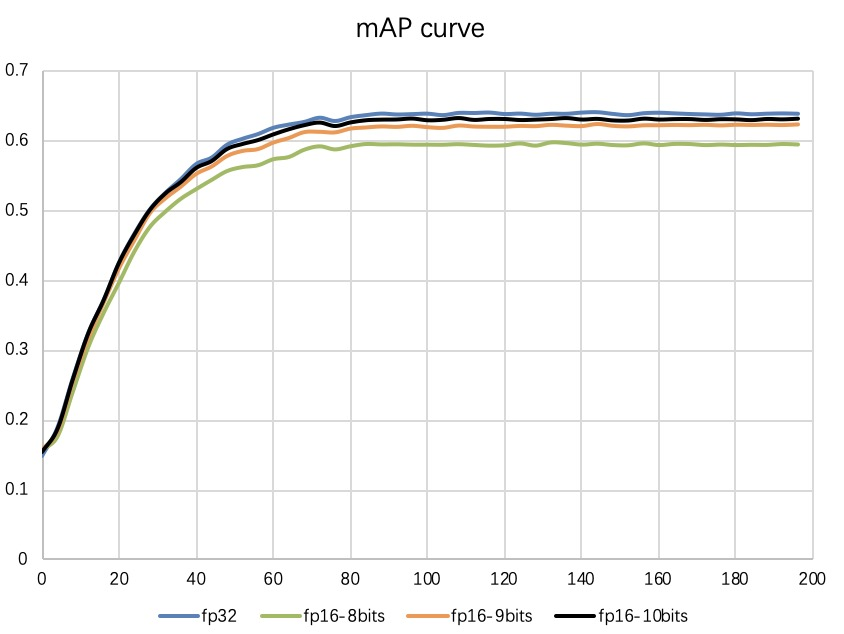
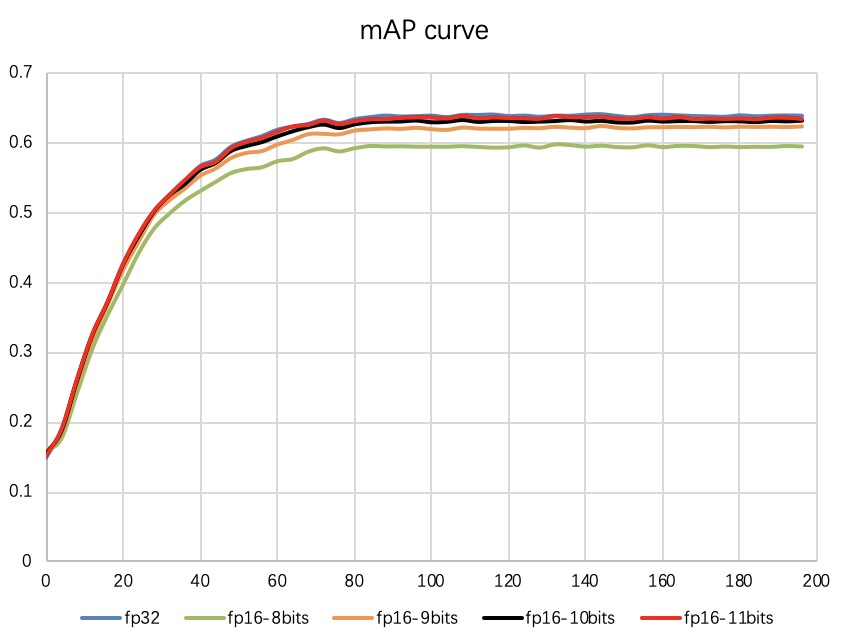
modify for sumbitting in 0306

Changed region(s): [[0.0, 0.0899, 0.9858, 0.989], [0.4005, 0.03, 0.5853, 0.0599]]

diff --git a/data/innovation2.tex b/data/innovation2.tex
@@ -35,11 +35,11 @@
 \end{minipage}
 \end{table}
 
-本章希望在不影响神经网络训练精度的情况下，尽可能减少梯度数据所需的比特位数，为进一步减少分布式通信开销，提高分布式系统可扩展性和训练效率提供数据压缩方法。本章将主要介绍梯度压缩的思路与实现方法，以及对应压缩方式在图像分类和物体检测网络中的训练精度。通过其与原始的训练精度对比，说明对应压缩算法的有效性和适用范围。本章针对图像分类、物体检测任务分别提出三种极限精度梯度压缩EPGC方法。图像分类任务对梯度数据精度要求低，本文提出9比特梯度压缩方法和8比特梯度压缩方法；考虑到物体检测网络对梯度数据精度要求偏高，具体原因将在后面详细分析，本文提出11比特梯度压缩方法。经实验证明：本文提出的三种极限精度梯度压缩EPGC方法，在图像分类或物体检测任务中均能达到原始训练相同收敛精度。说明了这三种梯度压缩方法在各自任务中的有效性，以及通过该压缩方法在保证神经网络收敛精度前提下，提升分布式系统可扩展性和训练效率的可行性。
+本章希望在不影响神经网络训练精度的情况下，尽可能减少梯度数据所需的比特位数，为进一步减少分布式通信开销，提高分布式系统可扩展性和训练效率提供数据压缩方法。本章将主要介绍梯度压缩的思路与实现方法，以及对应压缩方式在图像分类和物体检测网络中的训练精度。通过其与原始的训练精度对比，说明对应压缩算法的有效性和适用范围。本章针对图像分类、物体检测任务分别提出三种极限精度梯度压缩EPGC方法。图像分类任务对梯度数据精度要求低，本文提出9比特梯度压缩方法和8比特梯度压缩方法；考虑到物体检测网络对梯度数据精度要求偏高，本文提出11比特梯度压缩方法。造成物体检测网络对梯度数据精度要求偏高的原因将在后面详细分析。经实验证明：本文提出的三种极限精度梯度压缩EPGC方法，在图像分类或物体检测任务中均能达到原始训练相同收敛精度。说明了这三种梯度压缩方法在各自任务中的有效性，以及通过该压缩方法在保证神经网络收敛精度前提下，提升分布式系统可扩展性和训练效率的可行性。
 \section{引言}
 根据第二章内容可知，分布式训练过程中同步开销的大小对系统的可扩展性和训练效率有至关重要的影响。在不影响训练精度的情况下，将梯度尽可能地压缩则可减少同步开销，提高分布式系统的可扩展性和训练效率。本章将分别介绍适用于图像分类和物体检测网络的不同梯度压缩方法，将详细分析其具体实现和各个压缩方式下分类网和物体检测网络的最终收敛精度。
 
-由第三章LPDU算法实现可知，基于horovod要实现新的数据压缩方法，则需在MPI中新增一个数据类型来解析该压缩数据，并实现一个该数据类型的求和函数供MPI调用。为快速验证本文针对图像分类和物体检测任务分别提出的梯度压缩方法对网络训练精度的影响，本章提出的梯度压缩方法均通过对FP32浮点数或半精度浮点数对应比特位清零的方式来模拟对应的压缩方法。该模拟方法可避免对MPI的改动，使得本章提出的压缩方法能够快速得到验证。下面将对适用于图像分类网络的两种EPGC方法：9比特梯度压缩方法和8比特梯度压缩方法；以及适用于物体检测网络的10比特梯度压缩方法进行详细介绍。
+由第三章LPDU算法实现可知，基于horovod要实现新的数据压缩方法，则需在MPI中新增一个数据类型来解析该压缩数据，并实现一个该数据类型的求和函数供MPI调用。为快速验证本文针对图像分类和物体检测任务分别提出的梯度压缩方法对网络训练精度的影响，本章提出的梯度压缩方法均通过对FP32浮点数或半精度浮点数对应比特位清零的方式来模拟对应的压缩方法。该模拟方法可避免对MPI的改动，使得本章提出的压缩方法能够快速得到验证。下面将对适用于图像分类网络的两种EPGC方法：9比特梯度压缩方法和8比特梯度压缩方法；以及适用于物体检测网络的11比特梯度压缩方法进行详细介绍。
 \section{分类网络中的梯度压缩方法}
 本节主要介绍适用于图像分类网络的两种梯度压缩方法：9比特梯度压缩方法和8比特梯度压缩方法。实验证明这两种压缩方法在分类网络中均能达到理想收敛精度，但在性能上各有优缺点。
 
@@ -142,7 +142,7 @@ FP32 & 76.12 \\
 \label{fig:low_bits_ssd}
 \end{figure}
 
-由图~\ref{fig:low_bits_ssd}所示，在仅保留2比特尾数情况下，SSD最终收敛的mAP指略低于原始浮点数训练的收敛精度。随着尾数位的降低，其收敛精度也逐渐降低；可以看出：8比特梯度压缩方法下收敛曲线与基于浮点数的11比特梯度压缩方法的曲线基本重合，其原因在于这两种梯度压缩方法的尾数位均相同,因为梯度数据本身数值范围较小，指数位的减小不会对网络精度造成影响。图~\ref{fig:low_bits_ssd}充分说明了物体检测网络因为存在回归坐标任务的存在，使得其对梯度数据的精度要求高于分类网络，适用于分类网络的极限梯度压缩EPGC方法不能保证物体检测网络的训练精度。不同梯度压缩方法下SSD最终收敛精度如表~\ref{tab:ssd_accs}所示。
+由图~\ref{fig:low_bits_ssd}所示，在仅保留2比特尾数情况下，SSD最终收敛的mAP指略低于原始浮点数训练的收敛精度。随着尾数位的降低，其收敛精度也逐渐降低；可以看出：8比特梯度压缩方法下收敛曲线与基于浮点数的11比特梯度压缩方法的曲线基本重合，其原因在于这两种梯度压缩方法的尾数位均相同,因为梯度数据本身数值范围较小，指数位的减小不会对网络精度造成影响。图~\ref{fig:low_bits_ssd}充分说明了物体检测网络因为存在回归坐标任务，其对梯度数据的精度要求高于分类网络，适用于分类网络的极限梯度压缩EPGC方法不能保证物体检测网络的训练精度。不同梯度压缩方法下SSD最终收敛精度如表~\ref{tab:ssd_accs}所示。
 \begin{table}[htb]
 \centering
 \noindent\begin{minipage}{0.6\textwidth}
@@ -167,7 +167,7 @@ FP32 & 76.12 \\
 
 同理，为快速验证本节提出的梯度压缩方法的有效性，所有梯度压缩方法均通过在半精度浮点数基础上对特定尾数位清零的方式模拟所得。原理与图~\ref{fig:simulate_8bits}类似。
 
-通过该模拟方法，本节分别得出使用9比特，10比特，11比特情况下，对应梯度压缩方法对物体检测网络收敛精度的影响。经实验验证：保留5位尾数位，使用11比特梯度压缩方法能保证物体检测网络的收敛精度。9比特，10比特，11比特梯度压缩方法下物体检测网络的mAP曲线如图~\ref{fig:ssd_epgc_accs}所示。可知，随着梯度数据尾数位的逐渐增加，物体检测网络的训练曲线越来越接近于原始浮点数的训练曲线。当尾数比特位增加至5位时，11比特梯度压缩方法下SSD的收敛曲线基本与原始浮点数训练的收敛曲线重合，说明了11比特梯度压缩方法不会对物体检测网络训练精度造成影响。验证了11比特梯度压缩方法通过减少通信数据量，提高分布式系统的可扩展性和训练效率的可行性。9比特，10比特，11比特梯度压缩方法下SSD最终收敛精度如表~\ref{tab:ssd_epdc_final_accs}所示。
+通过该模拟方法，本节分别得出使用9比特，10比特，11比特情况下，对应梯度压缩方法对物体检测网络收敛精度的影响。经实验验证：保留5位尾数位，使用11比特梯度压缩方法能保证物体检测网络的收敛精度。9比特，10比特，11比特梯度压缩方法下物体检测网络的mAP曲线如图~\ref{fig:ssd_epgc_accs}所示。可知，随着梯度数据尾数位的逐渐增加，物体检测网络的训练曲线越来越接近于原始浮点数的训练曲线。当尾数比特位增加至5位时，11比特梯度压缩方法下SSD的收敛曲线基本与原始浮点数训练的收敛曲线重合，最终收敛精度为63.78\%，与原始浮点数收敛精度差距<0.3\%，该差距来自于神经网络自身训练的随机性和梯度数据精度的损失，属于正常可容忍误差，说明了11比特梯度压缩方法能够保证物体检测网络到正常收敛范围。验证了11比特梯度压缩方法通过减少通信数据量，提高分布式系统的可扩展性和训练效率的可行性。9比特，10比特，11比特梯度压缩方法下SSD最终收敛精度如表~\ref{tab:ssd_epdc_final_accs}所示。
 
 \begin{figure}[htp]
 \centering
@@ -186,9 +186,9 @@ FP32 & 76.12 \\
 \toprule[1.5pt]
 有效位数 & 有效尾数位 & SSD mAP(\%) \\\midrule[1pt]
 32 & 23 & 64.00 \\
-11 & 5 &  \\
-10 & 4 & 63.24 \\
-9 & 3 & 62.37 \\
+11 & 5 &  63.78 \\
+10 & 4 & 63.25 \\
+9 & 3 & 62.38 \\
 8 & 2 & 59.78 \\
 \midrule[1pt]
 \end{tabular}
@@ -219,9 +219,9 @@ FP32 & 76.12 \\
 
 \section{本章小结}
 
-本章基于减少分布式训练神经网络通信开销，提高分布式系统的可扩展性和训练效率的目的，希望通过减少梯度数据比特位的方法来减少通信数据量。针对图像分类与物体检测任务对梯度数据精度要求不同，本章分别提出适用于图像分类任务的9比特，8比特梯度压缩方法和适用于物体检测任务的11比特梯度压缩方法。经实验验证针对于图像分类网络的两种极限梯度压缩EPGC方法：9比特梯度压缩方法和8比特梯度压缩方法在Resnet50网络中均能达到训练精度要求，说明将这两种梯度压缩方法应用于分类网络的可行性。从理论上分析了物体检测网络对梯度数据精度要求偏高的原因，并提出适用于物体检测网络的11比特梯度压缩方法，经实验验证11比特梯度压缩方法可保证物体检测网络训练精度与原始浮点数训练精度相同，说明了该压缩方法应用于物体检测网络训练的可行性。
+本章基于减少分布式训练神经网络通信开销，提高分布式系统的可扩展性和训练效率的目的，希望通过减少梯度数据比特位的方法来减少通信数据量。针对图像分类与物体检测任务对梯度数据精度要求不同的特点，本章分别提出适用于图像分类任务的9比特，8比特梯度压缩方法和适用于物体检测任务的11比特梯度压缩方法。经实验验证针对图像分类网络提出的两种极限梯度压缩EPGC方法：9比特梯度压缩方法和8比特梯度压缩方法在Resnet50网络中均能达到训练精度要求，说明将这两种梯度压缩方法应用于分类网络的可行性。从理论上分析了物体检测网络对梯度数据精度要求偏高的原因，并提出适用于物体检测网络的11比特梯度压缩方法，经实验验证11比特梯度压缩方法可保证物体检测网络训练精度与原始浮点数训练精度相同，说明了该压缩方法应用于物体检测网络训练的可行性。
 
-下一步主要有两方面工作：1.基于8比特梯度压缩方法，继续减少尾数位，极限情况下仅使用6比特数据传输梯度，将其应用于分类网的训练，通过比较其训练精度与原始训练精度的差异，验证这种梯度压缩算法的可行性；2.针对分类网与物体检测网络对梯度数据精度要求不同的特点，本文分别提出了适用于分类网和物体检测网的极限梯度压缩EPGC方法。基于这一思路，本文希望将传统压缩算法引入到分布式同步通信中，根据不同任务的神经网络对梯度数据精度的不同要求，对传统压缩算法进行优化改进，使得在对应任务上达到更优的效果。
+下一步主要有三方面工作：1.目前本章提出的三种压缩方法均是在浮点数或半精度浮点数基础上模拟实现，其具体性能表现有待我们进一步具体实现，在真实训练场景中评测这三种压缩方法的性能；2.基于8比特梯度压缩方法，继续减少尾数位，极限情况下仅使用6比特数据传输梯度，将其应用于分类网的训练，通过比较其训练精度与原始训练精度的差异，验证这种梯度压缩算法的可行性；3.针对分类网与物体检测网络对梯度数据精度要求不同的特点，本文分别提出了适用于分类网和物体检测网的极限梯度压缩EPGC方法。基于这一思路，本文希望将传统压缩算法引入到分布式同步通信中，根据不同任务的神经网络对梯度数据精度的不同要求，对传统压缩算法进行优化改进，使得在对应任务上达到更优的效果。
 
 
 

diff --git a/data/abstract.tex b/data/abstract.tex
@@ -1,9 +1,9 @@
 \begin{cabstract}
 近年来以神经网络为基础的人工智能技术在学术界和工业界得到了广泛应用和发展。随着神经网络模型和训练所需的数据量不断增加，使得单机训练神经网络越来越困难。分布式训练神经网络不仅可以极大减少训练时间，也可对某些单机情况下无法训练的神经网络进行训练。在可预见的未来，分布式训练神经网络将成为必然选择。如何提高分布式训练神经网络的效率和可扩展性则显得尤为重要。
 
-本文针对这一问题提出低精度分布式更新算法LPDU，将原始浮点数梯度转换为BF16格式进行传输，减少同步时间开销，进而提升分布式训练效率，通过混合精度更新算法，保证训练精度。本文通过分析LPDU算法各部分的时间开销和神经网络的参数规模得出LPDU算法在特定神经网络训练中的理论性能提升，并通过实验加以验证。通过对比LPDU算法与原始算法在图像分类，目标检测任务的相关实验,证明了LPDU算法在图像分类与目标检测任务中均能达到与原始更新算法相同的理想精度。同时对分布式训练性能有所提升。在8节点情况下，resnet50的训练效率由原始的84.05\%提升到了87.50\%，VGG网络的训练效率相对于原始的79.42\%提升至了86.55\%,SSD网络相对于原始效率有4.83\%的提升。
+本文针对这一问题提出低精度分布式更新算法LPDU，将原始浮点数梯度转换为低精度数据进行传输，减少同步时间开销，进而提升分布式训练效率，通过混合精度更新算法，保证训练精度。本文通过分析LPDU算法各部分的时间开销和神经网络的参数规模得出LPDU算法在特定神经网络训练中的理论性能提升，并通过实验加以验证。通过对比LPDU算法与原始算法在图像分类，目标检测任务的相关实验,证明了LPDU算法在图像分类与目标检测任务中均能达到与原始更新算法相同的理想精度。同时对分布式训练性能有所提升。在8节点情况下，resnet50的训练效率由原始的84.05\%提升到了87.50\%，VGG网络的训练效率相对于原始的79.42\%提升至了86.55\%，SSD网络相对于原始效率有4.83\%的提升。
 
-基于LPDU算法减少梯度尾数位的思路，本文提出两种极限精度梯度压缩方法EPGC：9比特梯度压缩方法和8比特梯度压缩方法。9比特梯度压缩方法是在浮点数基础上去除所有尾数位，仅使用1个符号位和8个指数位表示梯度；8比特梯度压缩方法是在半精度浮点数基础上去除8位尾数位，使用1个符号位，5个指数位和2个尾数位表示梯度。为快速验证本文提出的梯度压缩方法的可行性，本文通过在原始浮点数或半精度浮点数基础上对特定尾数位置零的方式模拟这两种压缩方法。通过实验证明这两种梯度压缩算法均能保证神经网络在图像分类任务中的训练精度，说明通过这两种梯度压缩算法提升分布式训练效率上可行的。
+基于LPDU算法减少梯度尾数位的思路，以及分类网络和物体检测网络对梯度数据精度要求不同的特点，本文针对分类网和物体检测网络提出了三种极限精度梯度压缩方法EPGC：适用于分类网络的9比特梯度压缩方法和8比特梯度压缩方法，适用于物体检测网络的11比特梯度压缩方法。9比特梯度压缩方法是在浮点数基础上去除所有尾数位，仅使用1个符号位和8个指数位表示梯度；8比特梯度压缩方法是在半精度浮点数基础上去除8位尾数位，使用1个符号位，5个指数位和2个尾数位表示梯度；11比特梯度压缩方法是在半精度浮点数基础上去除5位尾数位，使用1个符号位，5个指数位和5个尾数位表示梯度。为快速验证本文提出的梯度压缩方法的可行性，本文通过在原始浮点数或半精度浮点数基础上对特定尾数位置零的方式模拟这两种压缩方法。通过实验证明这三种梯度压缩算法均能保证神经网络在对应图像分类或物体检测任务中的训练精度，说明通过这三种梯度压缩算法提升分布式训练效率上可行的。
 
 \end{cabstract}
 \ckeywords{神经网络; 分布式训练; 低精度; 更新算法; 梯度压缩}
@@ -11,9 +11,12 @@
 \begin{eabstract}
 In recent years, the artificial intelligence technology based on neural networks has been widely used and developed in academia and industry. As neural network models and the amount of data required for training continue to increase, it becomes increasingly difficult to train neural networks in a single machine. The distributed training for neural networks not only greatly shorten the training time, but also provides a solution for some neural networks that cannot be trained in single machine. In the foreseeable future, the distributed training for neural networks will become an inevitable choice. How to improve the efficiency and scalability of distributed training for neural networks is particularly important.
 
-This paper proposes a low-precision distributed update (LPDU) algorithm, which converts the original floating-point gradient into BF16 format for transmission, which reduces the synchronization time overhead and improves the efficiency of distributed training. The Mixed precision update  (MPU) algorithm can ensure the training accuracy. In this paper, by analyzing the time overhead in each part of LPDU algorithm and the parameter size of the neural network, the theoretical performance improvement of BF16 distributed update algorithm in specific neural network training is obtained and verified by experiments. By comparing the training accuracy curves between the LPDU algorithm and the original algorithm, it proves that the LPDU algorithm can achieve the same ideal precision as the original algorithm in both image classification and object detection tasks. And the efficiency of distributed training has improved. In the case of 8 nodes training, the efficiency of resnet50 has increased from the original 84.05 \% to 87.50\%. The training efficiency of the VGG has increased to 86.55\% compared with the original 79.42\%, and the SSD network has increased by 4.83\% compared with the original efficiency.
+This paper proposes a low-precision distributed update (LPDU) algorithm, which converts the original floating-point gradient into low-precision data format for transmission, which reduces the synchronization time overhead and improves the efficiency of distributed training. The Mixed precision update  (MPU) algorithm can ensure the training accuracy. In this paper, by analyzing the time overhead in each part of LPDU algorithm and the parameter size of the neural network, the theoretical performance improvement of BF16 distributed update algorithm in specific neural network training is obtained and verified by experiments. By comparing the training accuracy curves between the LPDU algorithm and the original algorithm, it proves that the LPDU algorithm can achieve the same ideal precision as the original algorithm in both image classification and object detection tasks. And the efficiency of distributed training has improved. In the case of 8 nodes training, the efficiency of resnet50 has increased from the original 84.05 \% to 87.50\%. The training efficiency of the VGG has increased to 86.55\% compared with the original 79.42\%, and the SSD network has increased by 4.83\% compared with the original efficiency.
 
-Based on the idea of LPDU algorithm that reduces the mantissa of gradient, two extreme precision gradient compression (EPGC) algorithms are proposed: 9-bits gradient compression algorithm and 8-bits gradient compression algorithm. The 9-bits gradient compression algorithm removes all mantissa bits in the float data format, only using 1 sign bit and 8 exponent bits to represent the gradient; the 8-bits gradient compression algorithm removes 8 bits in the mantissa of half-precision data. using 1 sign bit, 5 exponent bits and 2 mantissa bits represent the gradient. In order to quickly verify the feasibility of the two proposed gradient compression algorithms, this paper simulates the two compression algorithms by zeroing the specific mantissa position based on the original floating point number or half-precision floating point number. Experiments show that both gradient compression algorithms can guarantee the training accuracy of neural networks in image classification tasks. It is feasible to improve the efficiency of distributed training through these two gradient compression algorithms.
+Based on the idea of LPDU algorithm that reduces the mantissa of gradient, and the different requirements for the precision of gradient between classification networks and object detection networks. three extreme precision gradient compression (EPGC) algorithms are proposed: 9-bits gradient compression algorithm and 8-bits gradient compression algorithm for classification networks training, 11-bits gradient compression algorithm for object detection networks training.
+
+The 9-bits gradient compression algorithm removes all mantissa bits in the float data format, only using 1 sign bit and 8 exponent bits to represent the gradient. the 8-bits gradient compression algorithm removes 8 bits in the mantissa of half-precision data. using 1 sign bit, 5 exponent bits and 2 mantissa bits represents the gradient. And the 11-bits gradient compression algorithm removes 5 bits in the mantissa of half-precision data. using 1 sign bit, 5 exponent bits and 5 mantissa bits represents the gradient.
+ In order to quickly verify the feasibility of the three proposed gradient compression algorithms, this paper simulates the three compression algorithms by zeroing the specific mantissa position based on the original floating point number or half-precision floating point number. Experiments show that the three gradient compression algorithms can guarantee the training accuracy of neural networks in classification or object detection tasks. It is feasible to improve the efficiency of distributed training through these three gradient compression algorithms.
 
 \end{eabstract}
 \ekeywords{neural network; distributed training; low precision; update algorithm; gradient compression}

diff --git a/data/summary.tex b/data/summary.tex
@@ -1,15 +1,16 @@
 \chapter{总结与展望}
 \section{工作总结}
-优化分布式训练神经网络的性能对神经网络的发展有至关重要的作用。随着神经网络的发展，数据量和神经网络规模呈爆发性增长趋势，在可预见的将来单机训练已经很难满足要求，分布式训练神经网络将是必然选择，优化分布式训练神经网络的性能显得尤为重要。针对这一问题，本文提出低精度分布式更新LPDU算法，通过使用低精度数据传输梯度的方法，减少同步通信过程中的数据量，进而减少同步开销，提升分布式训练效率。在此基础上，本文提出两种极限精度梯度压缩EPGC方法：9比特梯度压缩方法和8比特梯度压缩方法，以进一步减少同步时间开销，提高分布式系统的可扩展性。本文主要研究工作和研究成果如下：
+优化分布式训练神经网络的性能对神经网络的发展有至关重要的作用。随着神经网络的发展，数据量和神经网络规模呈爆发性增长趋势，在可预见的将来单机训练已经很难满足要求，分布式训练神经网络将是必然选择，优化分布式训练神经网络的性能显得尤为重要。针对这一问题，本文提出低精度分布式更新LPDU算法，通过使用低精度数据传输梯度的方法，减少同步通信过程中的数据量，进而减少同步开销，提升分布式训练效率。在此基础上，本文提出三种极限精度梯度压缩EPGC方法：适用于图像分类网络的9比特梯度压缩方法和8比特梯度压缩方法，适用于物体检测网络的11比特梯度压缩方法，这些方法均能保证对应网络不损失训练精度的前提下，进一步减少同步时间开销，提高分布式系统的可扩展性。本文主要研究工作和研究成果如下：
 
 1. 低精度分布式更新算法。该算法旨在保证神经网络训练精度的情况下，提升分布式训练神经网络的性能。通过使用低精度数据传输梯度，减少了梯度数据的尾数位，达到减少同步数据量，减少同步时间开销的目的。本算法受启发于google公司使用BF16数据格式训练神经网络的相关研究。其研究表明在神经网络训练过程中，完全使用BF16数据格式训练神经网络能达到浮点数训练相同的精度，并根据这一研究成果开发出来首款支持BF16计算硬件：TPU。故本文提出将原始浮点数梯度转换为BF16数据格式，以减少分布式同步过程中的通信量。
 
-2. 极限精度梯度压缩方法：9比特梯度压缩方法与8比特梯度压缩方法。在LPDU算法基础上，为提升分布式系统的可扩展性和训练效率，我们进一步压缩梯度数据的比特位，本文提出基于原始浮点数去除所有尾数位的9比特梯度压缩方法，仅保留1个符号位与8个指数位。为快速验证本文所提出的梯度压缩方法对神经网络训练精度的影响，本文通过对浮点数梯度特定尾数位清零的方法模拟相应的梯度压缩方法。根据近年来业界将半精度浮点数应用于神经网络训练中的相关工作，本文还提出基于半精度浮点数的8比特梯度压缩方法，保留1个符号位，5个指数位和2个尾数位。
+2. 极限精度梯度压缩方法：适用于图像分类任务的9比特梯度压缩方法与8比特梯度压缩方法，适用于物体检测任务的11比特梯度压缩方法。在LPDU算法基础上，为提升分布式系统的可扩展性和训练效率，我们进一步压缩梯度数据的比特位。针对分类任务对梯度数据精度要求偏低的特点，本文提出基于原始浮点数去除所有尾数位的9比特梯度压缩方法，仅保留1个符号位与8个指数位。为快速验证本文所提出的梯度压缩方法对神经网络训练精度的影响，本文通过对浮点数梯度特定尾数位清零的方法模拟相应的梯度压缩方法。根据近年来业界将半精度浮点数应用于神经网络训练中的相关工作，本文还提出适用于图像分类任务的基于半精度浮点数的8比特梯度压缩方法，保留1个符号位，5个指数位和2个尾数位。针对物体检测网络对梯度数据精度要求偏高的特点，本文提出了11比特梯度压缩方法。
 
 在LPDU算法相关实验中，本文首先通过分析LPDU算法中涉及到的各部分操作的时间开销，以及特定神经网络的参数量大小与分布，从理论上分析LPDU算法在特定神经网络训练中对分布式训练效率的性能提升。真实训练过程中测得的性能提升与理论分析相一致，说明算法实现与理论分析的正确性。而后通过比较LPDU算法与原始更新算法在分类网，物体检测网的收敛精度与训练速度,说明LPDU算法在不影响神经网络收敛精度情况下，对分布式训练神经网络性能有一定提升。
 
-在9比特梯度压缩方法与8比特梯度压缩方法相关实验中，本文通过对原始浮点数或半精度浮点数特定尾数位清零的方法模拟对应梯度压缩方法。通过这两种梯度压缩方法在分类网和物体检测网络中的收敛精度与原始收敛精度的对比，说明本文提出的两种梯度压缩方法在分类网中的有效性，以及不适用于物体检测网络的原因，并提出了下一步需要做的工作。
+在极限梯度压缩方法相关实验中，本文通过对原始浮点数或半精度浮点数特定尾数位清零的方法模拟对应梯度压缩方法。通过9比特，8比特梯度压缩方法在分类网络中的收敛精度与原始收敛精度的对比，说明本文提出的9比特，8比特梯度压缩方法在分类网中的有效性。通过11比特梯度压缩方法在物体检测网络中的收敛精度与原始收敛精度的对比，说明本文提出的11比特梯度压缩方法在物体检测网络中的可行性。 
 \section{工作展望}
-本文提出的9比特梯度压缩方法与8比特梯度压缩方法均通过在浮点数或半精度浮点数上模拟实现。现阶段只证明该梯度压缩方法在分布式训练分类网中的可行性。对分布式系统可扩展性和训练效率的提升效果有待进一步实现这两种梯度压缩算法后，在真实训练场景中的表现。下一步我们将基于horovod实现这两种梯度压缩算法，达到提升分布式系统的可扩展性和训练效率。
+本文提出的三种极限梯度压缩EPGC方法均通过在浮点数或半精度浮点数上模拟实现。现阶段只证明对应梯度压缩方法在分布式训练分类网或物体检测网络的可行性。对分布式系统可扩展性和训练效率的提升效果有待进一步实现对应梯度压缩算法后，在真实训练场景中的表现。下一步我们将基于horovod实现这三种梯度压缩算法，达到提升分布式系统的可扩展性和训练效率的目的。
 
-对比9比特梯度压缩方法与8比特梯度压缩方法可知，在8比特梯度压缩基础上，继续减少尾数位，极限情况下仅使用6比特位表示梯度，并验证该压缩方法在分类网上的收敛精度，进而判断该梯度压缩方法用于分布式训练分类网的可行性。另一方面，针对8比特梯度压缩方法不能保证物体检测网络收敛精度的问题，下一步我们将基于8比特梯度压缩方法逐渐增加尾数比特位，直至其在物体检测网络中的收敛精度达到原始浮点数训练精度为止。
+对比9比特梯度压缩方法与8比特梯度压缩方法可知，在8比特梯度压缩基础上，继续减少尾数位，极限情况下仅使用6比特位表示梯度，并验证该压缩方法在分类网上的收敛精度，进而判断该梯度压缩方法用于分布式训练分类网的可行性。另一方面，针对分类任务与物体检测任务对梯度数据精度要求不同的特点，本文希望将传统压缩算法引入到神经网络训练的分布式通信过程中，根据神经网络对梯度数据精度的不同要求，对传统压缩算法进行优化改进，使得压缩算法在对应日内瓦哈桑达到更优的效果。
+

diff --git a/data/introduction.tex b/data/introduction.tex
@@ -88,7 +88,7 @@ BF16 & 0.00781250 & 2～3 \\
 \section{本文工作}
 本课题旨在提高神经网络在分布式训练中的效率和分布式系统的可扩展性。根据目前业界对低精度数据在神经网络中的研究现状可知，BF16或FP16格式数据在一定优化方法下均能保证神经网络的精度。本课题提出低精度分布式更新（LPDU）算法，算法主要包含两部分：低精度数据通信和混合精度更新。算法核心思想是把原始浮点数梯度转换为BF16格式的低精度数据进行全局同步，使得同步数据量减半，进而减小同步时间开销，提高分布式训练效率。同时，为保证神经网络的训练精度，本文使用混合精度更新算法对神经网络进行更新。
 
-在低精度分布式更新（LPDU）算法基础上，本文通过进一步减少梯度数据的有效尾数位继续减少同步数据量，以提升分布式训练系统的可扩展性和训练效率。结合半精度浮点数的数据格式，本文分别探索出两种极限精度梯度压缩（EPGC）方法：9比特梯度压缩方法和8比特梯度压缩方法。实验证明这两种压缩方法均能保证分类网的训练精度，证明了这两种压缩算法的可行性。
+在低精度分布式更新（LPDU）算法基础上，本文通过进一步减少梯度数据的有效尾数位继续减少同步数据量，以提升分布式训练系统的可扩展性和训练效率。根据分类网络和物体检测网络对梯度数据精度要求不同的特点，本文分别针对分类网络和物体检测网络提出三种极限精度梯度压缩（EPGC）方法：适用于分类网络的9比特梯度压缩方法和8比特梯度压缩方法，适用于物体检测网络的11比特梯度压缩方法。实验证明这三种梯度压缩方法均能保证在对应分类网络或物体检测网络的训练精度，证明了这三种梯度压缩算法的可行性。
 
 \subsection{低精度分布式更新算法}
 由表~\ref{tab:diff_format_bits}可知，BF16数据格式所需的数据位与半精度数据格式一致。其传输的数据量不变，而其指数位与浮点数一致，精度位比浮点数少了16位。相对于半精度数据而言有两个优势：1.在与浮点数进行转换的过程中，其与浮点数的转化更为高效。直接将浮点数的低16位舍去即可，无需对数据位进行转化；2.因为其指数位长度与浮点数一致，故其表示范围与浮点数基本一致，在进行数据转化时，不存在数值越界的情况。同时由表~\ref{tab:diff_format_precision}可知，因为BF16指数位相对较长，使得其精度位相对较短，其表示的精度相对半精度数据要差。
@@ -98,7 +98,8 @@ BF16 & 0.00781250 & 2～3 \\
 \subsection{极限精度梯度压缩方法}
 考虑到梯度数据的特殊性：数值往往非常小，绝大部分梯度绝对值在0～1范围内。且随着训练过程中网络逐渐趋向于稳定，梯度数据的波动范围更小，更集中到0～1范围，可使用更少比特位表示梯度。通过减少梯度数据的表示位，可减少分布式训练程中的同步数据量，进而提高分布式系统的可扩展性和训练效率。
 
-根据梯度数据这一特殊性，以及分类网络与物体检测网络对梯度数据精度要求不同的特点，本文分别提出适用于图像分类网络和物体检测网络的三种种极限梯度压缩EPGC方法。包括适用于图像分类网络的9比特和8比特梯度压缩方法和适用于物体检测网络的11比特梯度压缩方法。
+根据梯度数据这一特殊性，以及分类网络与物体检测网络对梯度数据精度要求不同的特点，本文分别提出适用于图像分类网络和物体检测网络的三种极限梯度压缩EPGC方法。包括适用于图像分类网络的9比特和8比特梯度压缩方法和适用于物体检测网络的11比特梯度压缩方法。
+
 本文希望在LPDU算法基础上进一步减少梯度数据尾数位,探索在保证神经网络训练精度情况下梯度数据所需的最少比特位。为快速验证在特定尾数位情况下神经网络的训练精度，本文通过将原始浮点数或半精度浮点数特定尾数位清零的方法模拟特定比特位梯度压缩方法。经实验验证：在浮点数基础上仅保留2比特、1比特或去除所有尾数位均能保证分类网的训练精度。故本文提出适用于分类网络的去除所有尾数位的9比特（1个符号位，8个指数位）梯度压缩方法。结合半精度浮点数的特点，本文提出8比特梯度压缩方法：1个符号位，5个指数位，2个尾数位。实验证明该压缩算法同样能保证分类网的训练精度。同时，考虑到物体检测网络对梯度数据精度要求较高，本文提出11比特梯度压缩方法，实验证明该方法能保证物体检测网络的训练精度与原始浮点数训练相同精度。这三种极限梯度压缩EPGC方法的具体设计与实验将在第四章详细介绍。
 \section{本文组织结构}
 本文针对现有硬件特点和神经网络对低精度数据的友好性，提出低精度分布式更新算法，在保证训练精度的前提下，减小数据通信量，提升了分布式训练效率。文章主要探讨了低精度分布式更新算法的训练效率和可行性，以及极限精度梯度压缩方法在分类任务中的可行性。本文主要分为五章，详细安排如下：
